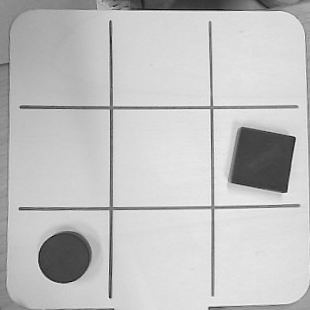
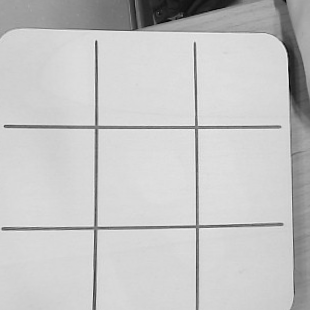
check if table == None

diff --git a/Morpion/morpionInterface.py b/Morpion/morpionInterface.py
@@ -171,6 +171,7 @@ class MorpionGame(BoxLayout):
             self.robot1 = Robot() # useful toaccess to ned's actions
             self.action_bar.animate_wifi("green")
             self.table = self.robot1.modif_table(self.table) # the robot look at the game and change the table according to the detected piece
+            print(self.table)
             self.fire("red") # change traffic light to red
             self.first_end = False # if a game is restarted we want first_end to be false
             self.modifUI(instance,0)# update the displayed game according to the table

diff --git a/Morpion/Robot.py b/Morpion/Robot.py
@@ -53,7 +53,9 @@ class Robot:
     def cam_pos(self): # the robot moves towards a position from which it can analyse the board game
             self.robot.move_pose(self.observation_pose)
 
-    def check_table(self, table0: np.array, table: np.array):
+    def check_table(self, table0: np.array, table):
+        if not table:
+            return False
         table0 = np.asarray(table0)
         table = np.asarray(table)
         if np.count_nonzero(table0) == table0.size and np.count_nonzero(table) == table0.size:
